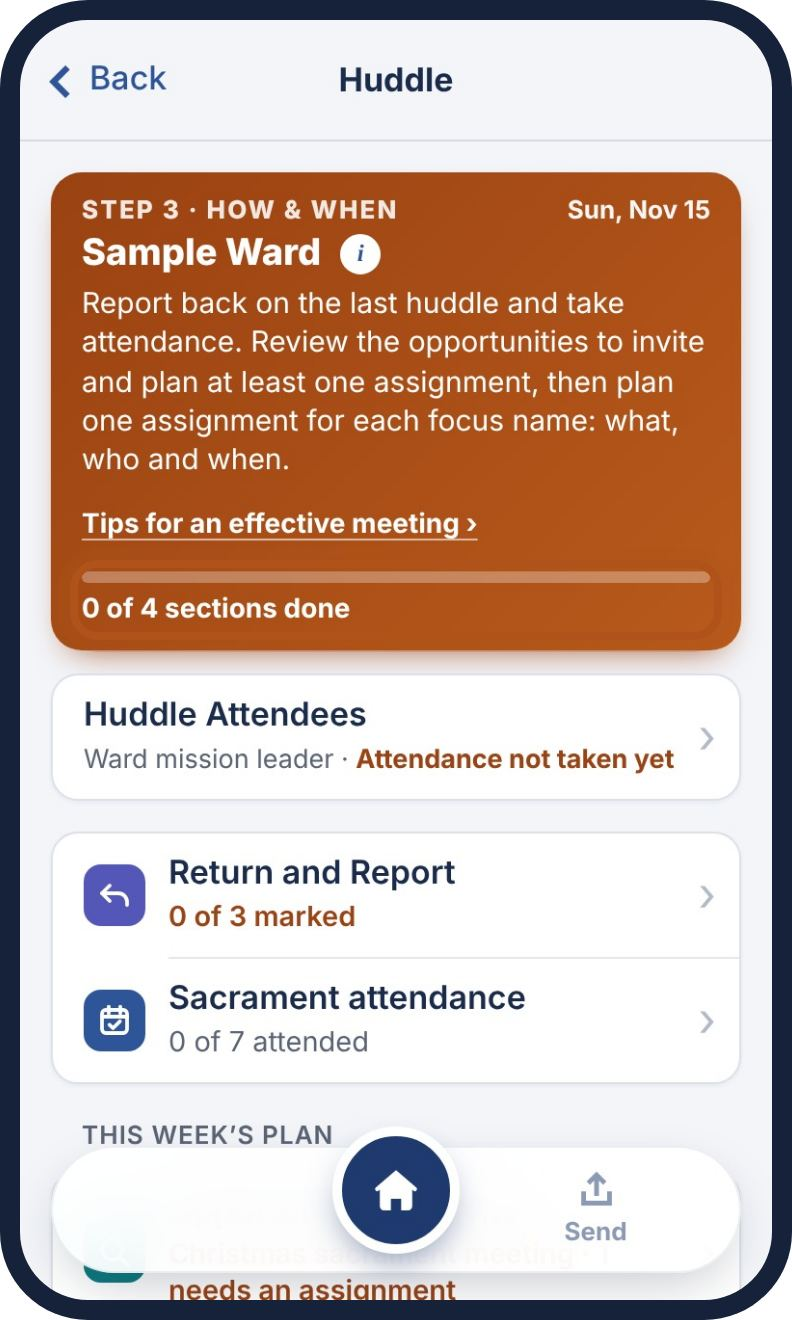
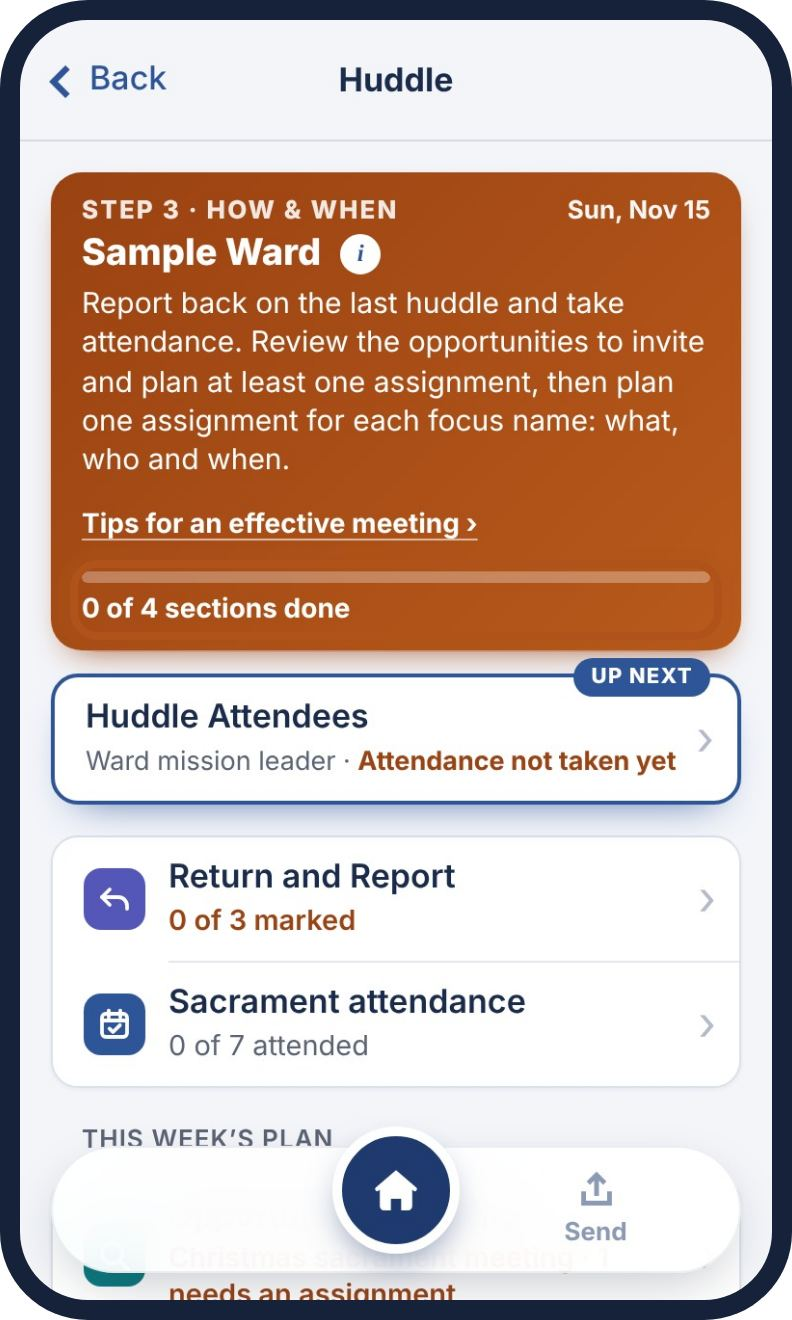
Lighter Huddle: Up next from Attendees, one big button per screen, small Add an event; Add to focus names picker
Claude-Session: https://claude.ai/code/session_01PW98YcMvh8WynmxGN9Y5LD

diff --git a/app.js b/app.js
@@ -1587,7 +1587,7 @@
         x.past ? h('span', { class: 'wc-status', 'data-status': statusOf(x.status) || 'pending', text: STATUS_WORD[x.status] || 'Pending' }) : null,
         h('span', { class: 'step-chev', 'aria-hidden': 'true', text: '›' })])]);
     });
-    lines.push(h('li', {}, [h('button', { type: 'button', class: 'nav-row add-row', 'data-action': 'add-asg', 'data-a': k, 'aria-label': 'Add an assignment to ' + (t || 'this opportunity') }, [icon('plus'), h('span', { text: 'Add an assignment' })])]));
+    lines.push(h('li', {}, [h('button', { type: 'button', class: 'nav-row add-row add-asg-strong', 'data-action': 'add-asg', 'data-a': k, 'aria-label': 'Add an assignment to ' + (t || 'this opportunity') }, [icon('plus'), h('span', { text: 'Add an assignment' })])]));
     return h('section', { class: 'list-panel rows list-fn opp-panel', 'data-opp': o.id, 'aria-label': t || 'Opportunity' }, [h('ul', { class: 'steps-list person-rows' }, [h('li', { class: 'opp-card-top' }, [head])].concat(lines))]);
   }
   // One opportunity's own screen: what's coming up, its date, and its assignments.
@@ -1628,7 +1628,7 @@
       var kind = view === 'wc-fn' ? 'wc' : 'hd';
       if (kind === 'hd' && opps.length) { // the Huddle: one card per opportunity, its assignments as lines under it
         wrap.replaceChildren.apply(wrap, opps.map(function (o, k) { return oppCard(o, k); }).concat([
-          h('button', { type: 'button', class: 'btn-outline full btn-add-opp', 'data-action': 'add-opp' }, ['+ Add an event'])]));
+          h('button', { type: 'button', class: 'btn-link btn-add-opp quiet-add', 'data-action': 'add-opp' }, ['+ Add an event'])])); // a small link: the Huddle plans assignments
         return;
       }
       var rows = opps.map(function (o, k) { return oppRow(kind, o, k); });
@@ -2082,15 +2082,18 @@
     if (!$('#steps-home')) return;
     renderHeroes();
     var fc = $('#fn-count'); if (fc) fc.textContent = plural(state.find.items.filter(function (x) { return str(x.task).trim(); }).length, 'assignment', 'assignments');
+    // Up next (the user asked, Nov 19, 2026, night): Attendees, then each section in order; the first not done is highlighted.
+    var upNext = !state.attendees.length ? 'att' : (STEPS.filter(function (x) { return !state.stepsDone[x.id]; })[0] || {}).id || '';
+    var ds = $('#details-summary'); if (ds) { ds.classList.toggle('is-next', upNext === 'att'); ds.classList.toggle('is-done', !!state.attendees.length); }
     var row = function (st) {
-      var isDone = !!state.stepsDone[st.id], status = stepStatus(st.id);
+      var isDone = !!state.stepsDone[st.id], status = stepStatus(st.id), isNext = upNext === st.id;
       var num = null;
       if (isDone) { num = h('span', { class: 'step-num' + (justDone && justDone.id === st.id && Date.now() - justDone.at < 1500 ? ' pop' : ''), 'aria-hidden': 'true' }); num.appendChild(icon('check')); }
-      return h('li', {}, [h('button', { type: 'button', class: 'nav-row step-row' + (isDone ? ' done' : ''), 'data-action': 'open-step', 'data-a': st.id,
-        'aria-label': st.title + (isDone ? ', done' : '') + '. ' + status.text }, [
+      return h('li', { class: isNext ? 'is-next' : null }, [h('button', { type: 'button', class: 'nav-row step-row' + (isDone ? ' done' : '') + (isNext ? ' is-next' : ''), 'data-action': 'open-step', 'data-a': st.id,
+        'aria-label': st.title + (isDone ? ', done' : isNext ? ', up next' : '') + '. ' + status.text }, [
         tile(st.id),
         h('span', { class: 'step-text' }, [
-          h('span', { class: 'step-title', text: st.title }),
+          h('span', { class: 'step-title' }, [st.title, isNext ? h('span', { class: 'row-next', text: 'Up next' }) : null]),
           h('span', { class: 'step-status' + (status.warn ? ' warn' : ''), text: status.text })
         ]),
         num,
@@ -2105,6 +2108,10 @@
   function footList() { return isWcList(view) ? WC_LISTS.map(function (l) { return { id: 'wc-' + l.id, title: l.title }; }) : STEPS; }
   function renderStepFoot() {
     var list = footList(), i = list.findIndex(function (st) { return st.id === view; });
+    var hint = $('#step-gate-hint'); if (hint) hint.hidden = true;
+    // One big button per screen (the user asked, Nov 19, 2026, night): no Next and Back links under it.
+    $('#step-next').hidden = true; $('#step-prev').hidden = true;
+    if (view === 'wc-pick') { $('#step-done-btn').hidden = true; var ul0 = $('#step-foot .undone-link'); if (ul0) ul0.hidden = true; return; }
     if (i < 0) return;
     var nxt = list[i + 1], prv = list[i - 1], wcSec = isWcList(view), btn = $('#step-done-btn');
     btn.hidden = wcSec && view !== 'wc-fn' && view !== 'wc-cp'; // Opportunities to invite and the Covenant Path Report (Ask ward council) have the button
@@ -2114,12 +2121,11 @@
     else if (!wcSec) {
       var gate = state.stepsDone[view] ? null : stepGate(view);
       markDoneBtn(btn, !!state.stepsDone[view], 'step-undone', 'steps-home', view === 'fn' && !oppsTitled() ? 'No upcoming events' : 'Mark done', 'step-done');
-      if (gate) { btn.classList.add('is-blocked'); btn.setAttribute('data-action', 'step-gate'); btn.querySelector('.mark-label').textContent = gate.text; btn.setAttribute('aria-label', gate.text + '. Tap to go there.'); }
+      // What's still needed is a plain gray line above a gray Mark done (tapping it still opens what's missing).
+      if (gate) { btn.classList.add('is-blocked'); btn.setAttribute('data-action', 'step-gate'); btn.setAttribute('aria-label', 'Mark done. ' + gate.text + ' first. Tap to go there.'); if (hint) { hint.textContent = gate.text + ' first.'; hint.hidden = false; } }
     }
     var ul = $('#step-foot .undone-link'); if (ul && wcSec && view !== 'wc-fn' && view !== 'wc-cp') ul.hidden = true;
-    var sn = $('#step-next'), sp = $('#step-prev');
-    sn.hidden = !nxt; sp.hidden = !prv;
-    // A quiet shortcut line, not steps: "‹ Return and Report · Name Next Ordinance ›"
+    var sn = $('#step-next'), sp = $('#step-prev'); // (kept on the page, always hidden now)
     if (nxt) { sn.textContent = 'Next: ' + nxt.title + ' ›'; sn.setAttribute('aria-label', 'Next: ' + nxt.title); }
     if (prv) { sp.textContent = '‹ ' + prv.title; sp.setAttribute('aria-label', 'Go to ' + prv.title); }
   }
@@ -2154,7 +2160,7 @@
     $('#bw-view').hidden = !bw; $('#af-view').hidden = !af;
     $('#mode-title').textContent = wc ? 'Ward Council' : bw ? 'Before Ward Council' : af ? 'After the huddle' : 'Huddle';
     $('#hd-hero').hidden = all || view !== 'home'; // the Huddle's header card, with its one line on what to do there
-    var stp = STEPS.filter(function (x) { return x.id === view; })[0] || WC_LISTS.filter(function (x) { return 'wc-' + x.id === view; })[0];
+    var stp = STEPS.filter(function (x) { return x.id === view; })[0] || WC_LISTS.filter(function (x) { return 'wc-' + x.id === view; })[0] || (view === 'wc-pick' ? { title: 'Find your focus names' } : null);
     $('#step-title').textContent = person ? personTitle(personRef) : stp ? stp.title : '';
     // Leaving a person's screen: drop a name left empty, then redraw the lists it appears on.
     if (isPerson(shownView) && !person) { cleanupPerson(); renderCP(); renderTN(); renderFN(); }
@@ -2292,8 +2298,8 @@
     var next = order.filter(function (id) { return !done[id]; })[0] || '';
     return { done: done, next: next };
   }
-  function isWcList(v) { return v === 'wc-cp' || v === 'wc-tn' || v === 'wc-fn' || v === 'wc-mr'; }
-  function isWcNames(v) { return v === 'wc-cp' || v === 'wc-tn'; }
+  function isWcList(v) { return v === 'wc-cp' || v === 'wc-tn' || v === 'wc-fn' || v === 'wc-mr' || v === 'wc-pick'; }
+  function isWcNames(v) { return v === 'wc-cp' || v === 'wc-tn' || v === 'wc-pick'; }
   function wcStatus(id) {
     if (id === 'fn') { // ward council lists what's coming up; the huddle makes the assignments, so no warning here
       var wn = state.find.opps.filter(function (o) { return str(o.title).trim(); });
@@ -2334,7 +2340,7 @@
       ul.classList.toggle('is-next', parts.next === l.id); ul.classList.toggle('is-done', !!parts.done[l.id]);
       ul.replaceChildren(wcPartRow(l, parts));
     });
-    var cpUl = $('#wc-step-cp'); if (cpUl) cpUl.replaceChildren(wcPartRow(WC_LISTS[1], { done: {}, next: '' }, true));
+    var cpUl = $('#wc-step-cp'); if (cpUl) cpUl.replaceChildren(wcPartRow({ id: 'cp', open: 'pick', title: 'Covenant Path Report' }, { done: {}, next: '' }, true)); // opens the picker
     // The focus names, right on the screen: tap one to open it, swipe left to take it off.
     var sec = $('#wc-step-tn'); if (!sec) return;
     var named = focusNamed(), done = parts.done.tn, next = parts.next === 'tn';
@@ -2356,6 +2362,26 @@
       ]), done ? icon('check', 'wc-done-tick') : null]),
       h('ul', { class: 'steps-list person-rows', 'data-wc': 'tn' }, rows), keep ? h('div', { class: 'wc-keep-wrap' }, [keep]) : null].filter(Boolean));
   }
+  // Find your focus names → the Covenant Path Report (the user asked, Nov 19, 2026, night): just each name, a Suggested
+  // focus name tag with its reason (the temple countdown, a baptism date), and Add to focus names. No question, no
+  // report link: those belong to Ask ward council.
+  function pickPanel(gid, title) {
+    var rows = state.cp[gid].map(function (a, i) { return { a: a, i: i }; }).filter(function (x) { return str(x.a.name).trim(); }).map(function (x) {
+      var name = str(x.a.name).trim(), on = focusIndex(name) >= 0, pr = on ? '' : pressingReason(x.a, gid);
+      return h('li', { class: 'pick-li' }, [h('div', { class: 'nav-row pick-row' }, [
+        initialsDot(name),
+        h('span', { class: 'step-text' }, [h('span', { class: 'step-title person-name', text: name }),
+          pr ? h('span', { class: 'row-tags' }, [rowTag('Suggested focus name', 'due')]) : null,
+          pr ? h('span', { class: 'step-status' }, [h('span', { class: 'row-due', text: pr })]) : null]),
+        on ? h('span', { class: 'pick-on' }, [icon('check'), h('span', { text: 'Focus name' })])
+          : h('button', { type: 'button', class: 'btn-outline pick-add', 'data-action': 'pick-focus', 'data-a': gid, 'data-b': x.i, 'aria-label': 'Add ' + name + ' to focus names' }, ['Add to focus names'])
+      ])]);
+    });
+    if (!rows.length) rows.push(h('li', { class: 'list-empty' }, [h('p', { class: 'list-empty-text', text: 'No names yet.' })]));
+    var attrs = { class: 'list-panel rows list-' + gid, 'aria-label': title, 'data-pick': gid };
+    return h('section', attrs, [h('div', { class: 'list-head' }, [h('h3', { class: 'list-title', text: title }), h('span', { class: 'list-count', text: countText(countNamed(gid)) })]),
+      h('ul', { class: 'steps-list person-rows' }, rows)]);
+  }
   function renderWC() {
     var wrap = $('#wc-list'), rows = $('#wc-rows'); if (!wrap || !rows) return;
     rows.hidden = !(stepsOn && view === 'wc');
@@ -2363,7 +2389,7 @@
     if (!rows.hidden) renderWcCards();
     if (rowsOn) { // one row per name; the fields are on the person's own screen
       if (!isWcNames(view)) { wrap.replaceChildren(); return; }
-      wrap.replaceChildren.apply(wrap, view === 'wc-tn' ? [rowsPanel('wc', 'tn', 'Focus names')] : [reportLink()].concat(GROUPS.map(function (g) { return rowsPanel('wc', g.id, g.title); })));
+      wrap.replaceChildren.apply(wrap, view === 'wc-tn' ? [rowsPanel('wc', 'tn', 'Focus names')] : view === 'wc-pick' ? GROUPS.map(function (g) { return pickPanel(g.id, g.title); }) : [reportLink()].concat(GROUPS.map(function (g) { return rowsPanel('wc', g.id, g.title); })));
       return;
     }
     // (Cards-open layout.) The names are only built while their list is on screen, so each field exists once on the page.
@@ -2768,6 +2794,7 @@
         focusLast('[data-group="' + a + '"] input[data-bind$=".name"]'); break;
       case 'convert-nm': convertToNewMember(+a); break;
       case 'make-focus': state.tnKept = true; makeFocus(a, +b); break;
+      case 'pick-focus': state.tnKept = true; makeFocus(a, +b); renderWC(); break;
       case 'tn-keep': if (!focusNeeds().length) { state.tnKept = true; saveDraft(); renderWC(); renderDoors(); renderHeroes(); } break;
       case 'wc-ask-done': state.ask = state.ask || {}; state.ask.done = true; saveDraft(); renderStepFoot();
         { var hs1 = null; try { hs1 = history.state; } catch (e) { /* ignore */ } if (hs1 && isWcList(hs1.hv) && hs1.pushed) { try { history.back(); } catch (e) { showView('wc', 'replace'); } } else showView('wc', 'replace'); }
@@ -2897,7 +2924,13 @@
       case 'slide-prev': showSlide(slideAt - 1); break;
       case 'close-slides': closeOverlay('#slides-sheet'); break;
       case 'close-ward': closeOverlay('#ward-sheet'); renderDoors(); renderSteps(); wardClosed(); break;
-      case 'close-details': detailsOpen = false; renderDetails(); window.scrollTo(0, 0); break;
+      case 'close-details': detailsOpen = false; renderDetails(); renderSteps(); window.scrollTo(0, 0); break;
+      case 'details-done': { // Attendees done: straight on to the next section not done yet (Nov 19, 2026, night)
+        detailsOpen = false; renderDetails(); renderSteps(); window.scrollTo(0, 0);
+        var nx1 = state.attendees.length ? STEPS.filter(function (x) { return !state.stepsDone[x.id]; })[0] : null;
+        if (nx1) showView(nx1.id, 'push');
+        break;
+      }
       case 'edit-one': {
         state.openOne[a] = +b; rerenderList(a);
         var oc = document.querySelector('.fold-open .card');

diff --git a/test/tools/slides/scenes.js b/test/tools/slides/scenes.js
@@ -12,7 +12,7 @@ module.exports = [
   { shot: 's12b-wc-opp', k: 'Step 2 · Opportunities to invite', c: 'blue', title: 'What’s coming up', body: 'Add each upcoming event and its event date, then tap Done. If there are none, tap No upcoming events.', t: 7 },
   { shot: 's09-wc-cp', k: 'Step 2 · Ask ward council', c: 'blue', title: 'What has anyone heard?', body: 'Ask the council: has anyone completed a step on their Covenant Path this week? Before Ward Council matched the report in Member Tools; this is for what people know.', t: 9 },
   { shot: 's18-howhelp', k: 'Step 2 · How can we help?', c: 'blue', title: 'Questions to guide you', body: 'On each Covenant Path Report list, tap How can we help? for the questions in Preach My Gospel, chapter 13.', t: 8 },
-  { shot: 's10-wc-person', k: 'Step 2 · Ask ward council', c: 'blue', title: 'Check off, or make a focus name', body: 'Tap a name to check off a step that’s done. Make focus name adds them to this week’s focus names. Then tap Done, or No changes this week.', t: 8 },
+  { shot: 's10-wc-person', k: 'Step 2 · Ask ward council', c: 'blue', title: 'Check off what’s done', body: 'Tap a name to check off a step that’s done. Then tap Done, or No changes this week. Find your focus names has Add to focus names beside each name.', t: 8 },
   { shot: 's11-wc-focus-person', k: 'Step 2 · Focus names', c: 'blue', title: 'Give each a next ordinance', body: 'Only focus names get a next ordinance. Tap one and choose it, or tap Suggested. When the report shows it done, Ward Council chooses the next.', t: 8 },
   { shot: 's12-wc-done', k: 'Step 2 · Focus names', c: 'blue', title: 'Keep these focus names', body: 'Each week, look at the focus names again. Tap Keep these focus names (or add or remove one) and the card turns green.', t: 7 },
   { shot: 's13-start-up3', k: 'Step 3 · The Huddle', c: 'orange', title: 'How and when', body: 'The Huddle is the weekly coordination meeting: brief, focused, and about people.', t: 6 },
@@ -26,7 +26,7 @@ module.exports = [
   { shot: 's22-person-text', k: 'Step 3 · Before everyone leaves', c: 'orange', title: 'Text this assignment', body: 'Send each assignment by text, so the person asked to help knows exactly what, for whom, and when.', t: 8 },
   { shot: 's21-hd-note', k: 'Step 3 · Focus names', c: 'red', title: 'Never add confidential information', body: 'This reminder sits under the notes. Everyone who receives the huddle report can read it. Keep it to names, ordinances and simple needs.', t: 7 },
   { shot: 's23-hd-tn-done', k: 'Step 3 · Focus names', c: 'orange', title: 'A plan for every focus name', body: 'Each name now shows its assignment, who, and when. Mark done works once every name has one.', t: 6 },
-  { shot: 's25-huddle-all', k: 'Step 3 · The Huddle', c: 'orange', title: 'All four sections done', body: 'Mark done takes you on to the next section. The bar fills in.', t: 6 },
+  { shot: 's25-huddle-all', k: 'Step 3 · The Huddle', c: 'orange', title: 'All four sections done', body: 'Follow Up next: Attendees, then each section. Mark done takes you on to the next one.', t: 6 },
   { shot: 's26-start-up4', k: 'Step 4 · After the huddle', c: 'plum', title: 'Up next: After the huddle', body: 'Three green checks. One step left before you send.', t: 6 },
   { shot: 's27-after', k: 'Step 4 · After the huddle', c: 'plum', title: 'Update the Covenant Path Report', body: 'This page lists only what changed. Go back to the Covenant Path Report and update it with the new information.', t: 8 },
   { shot: 's28-after-done', k: 'Step 4 · After the huddle', c: 'plum', title: 'Mark it done', body: 'Update each changed name in the report and tick Updated in the report. Then Mark done works.', t: 6 },

diff --git a/index.html b/index.html
@@ -168,7 +168,7 @@
       </details>
       <div class="chips" id="attendee-list"></div>
     </div>
-    <button type="button" class="btn-outline full details-done" data-action="close-details" hidden>Done</button>
+    <button type="button" class="btn-primary full details-done" data-action="details-done" hidden>Done</button>
     </div>
   </header>
 
@@ -344,6 +344,7 @@
   </section>
 
   <div class="step-foot" id="step-foot" hidden>
+    <p class="step-gate-hint" id="step-gate-hint" hidden></p>
     <button type="button" class="btn-primary full mark-done" data-action="step-done" id="step-done-btn"><svg class="mark-check" width="18" height="18" viewBox="0 0 18 18" fill="none" stroke="currentColor" stroke-width="2.4" aria-hidden="true"><path d="M3.5 9.5l3.5 3.3L14.5 5"/></svg><span class="mark-label" id="step-done-label">Mark done</span></button>
     <div class="step-nav">
       <button type="button" class="step-nav-btn prev" data-action="step-prev" id="step-prev"></button>
@@ -652,14 +653,14 @@
           <li>Tap <strong>Home</strong>, then <strong>Ward Council</strong>. Work down the cards; the next one says <strong>Up next</strong>.</li>
           <li><strong>Opportunities to invite:</strong> tap <strong>Add an event</strong>, then <strong>Done</strong> (or <strong>No upcoming events</strong>).</li>
           <li><strong>Ask ward council:</strong> check off steps done this week (tap How can we help? for questions), then <strong>Done</strong>.</li>
-          <li><strong>Find your focus names:</strong> in a list or <strong>Open Part-Member Families</strong>, then <strong>Make focus name</strong> or <strong>Add a focus name</strong>.</li>
+          <li><strong>Find your focus names:</strong> tap <strong>Add to focus names</strong> beside a name, or <strong>Open Part-Member Families</strong>.</li>
           <li><strong>Focus names:</strong> tap each one and choose its next ordinance, then tap <strong>Keep these focus names</strong>.</li>
         </ul>
       </details></li>
       <li><details class="help-item">
         <summary class="nav-row"><span class="help-num" aria-hidden="true">3</span><span class="step-text"><span class="step-title">Huddle</span><span class="step-status">How and when to help</span></span><span class="step-chev" aria-hidden="true">›</span></summary>
         <ul class="help-body">
-          <li>Tap <strong>Home</strong>, then <strong>Huddle</strong>. The bar shows sections done. In <strong>Huddle Attendees</strong>, choose who’s conducting and tap who attended.</li>
+          <li>Tap <strong>Home</strong>, then <strong>Huddle</strong>, and follow <strong>Up next</strong>: first <strong>Huddle Attendees</strong> (who’s conducting, who attended), then each section.</li>
           <li><strong>Return and Report:</strong> mark each assignment <strong>Yes</strong>, <strong>Partly</strong> or <strong>No</strong>; tap <strong>Carry forward to this huddle</strong> to keep an unfinished one.</li>
           <li><strong>Sacrament attendance:</strong> tap each person who came.</li>
           <li><strong>Opportunities to invite:</strong> under an event, tap <strong>Add an assignment</strong>, then a way to invite.</li>

diff --git a/test/flow.js b/test/flow.js
@@ -42,9 +42,14 @@ const flags = ['huddle-tour-seen', 'huddle-help-seen', 'huddle-names-hint-seen',
   await p.click('#hd-hero .hero-i'); await w(150);
   ok(await p.isVisible('#hd-intro'), 'tapping the i shows them');
   ok(/This week’s plan/.test(await p.textContent('#band-plan')), 'the plan’s heading is This week’s plan');
+  ok(await p.evaluate(() => document.querySelector('#details-summary').classList.contains('is-next')) && await p.locator('.step-row.is-next').count() === 0, 'Up next: Huddle Attendees comes first');
+  await p.click('[data-action="open-details"]'); await w(300); await p.click('#attendee-list button >> nth=0'); await w(150); await p.click('[data-action="details-done"]'); await w(500);
+  ok(await view() === 'rr', 'Attendees’ Done goes straight on to Return and Report');
+  await p.click('[data-action="steps-home"]'); await w(300);
+  ok(await p.locator('[data-action="open-step"][data-a="rr"].is-next .row-next').count() === 1 && !(await p.evaluate(() => document.querySelector('#details-summary').classList.contains('is-next'))), 'then Return and Report is Up next');
   // Opportunities to invite: gray until an event has an assignment
   await p.click('[data-action="open-step"][data-a="fn"]'); await w(400);
-  ok(await blocked() && await btn() === 'Plan at least one assignment', 'Opportunities to invite: Mark done is gray until an event has an assignment');
+  ok(await blocked() && await btn() === 'Mark done' && (await p.textContent('#step-gate-hint')) === 'Plan at least one assignment first.' && await p.isVisible('#step-gate-hint'), 'Opportunities to invite: Mark done is gray, with a plain gray line saying an event needs an assignment');
   await p.click('#step-done-btn'); await w(400);
   ok(await view() === 'p-hd', 'tapping it opens the event');
   await p.click('#person-card [data-action="add-fn"]'); await w(300);
@@ -52,7 +57,7 @@ const flags = ['huddle-tour-seen', 'huddle-help-seen', 'huddle-names-hint-seen',
   ok(!(await blocked()) && await btn() === 'Mark done', 'with an assignment, Mark done works');
   await p.click('#step-done-btn'); await w(500);
   ok(await view() === 'tn', 'Mark done goes straight on to the next section (Focus names)');
-  ok(await blocked() && await btn() === 'Marcus Bell needs an assignment', 'Focus names: gray, saying who still needs an assignment');
+  ok(await blocked() && (await p.textContent('#step-gate-hint')) === 'Marcus Bell needs an assignment first.', 'Focus names: gray, with a line saying who still needs an assignment');
   await p.click('#step-done-btn'); await w(500);
   ok(await view() === 'p-hd' && (await p.textContent('#step-title')) === 'Marcus Bell', 'tapping it opens that focus name');
   // The focus name's screen: ward council's part is one line with an i

diff --git a/styles.css b/styles.css
@@ -1736,3 +1736,27 @@ body[data-view="start"] .title-text .title-sub { margin-top: 8px; font-size: 13p
 .card-grid > .ord-done { grid-column: 1 / -1; }
 /* An event's own screen: its fields in a white block, like a person's screen */
 #person-view .opp-screen > .card-grid { background: var(--card); border-radius: 12px; padding: 14px 16px; margin-top: 14px; }
+
+/* The Huddle: the section up next is highlighted (Attendees first), the way Ward Council's cards are */
+.step-row.is-next { background: var(--accent-soft); box-shadow: inset 4px 0 0 var(--accent); }
+.row-next { display: inline-block; margin-left: 8px; padding: 1px 8px; border-radius: 999px; background: var(--accent); color: #FFFFFF; font-size: 11px; font-weight: 800; letter-spacing: .05em; text-transform: uppercase; vertical-align: 2px; }
+.details-summary.is-next { border: 2px solid var(--accent); box-shadow: 0 10px 22px -14px var(--accent); position: relative; }
+.details-summary.is-next::after { content: 'Up next'; position: absolute; top: -10px; right: 14px; padding: 2px 9px; border-radius: 999px; background: var(--accent); color: #FFFFFF; font-size: 11px; font-weight: 800; letter-spacing: .06em; text-transform: uppercase; }
+/* One big button per Huddle screen: what's still needed is a plain gray line above a gray Mark done */
+.step-gate-hint { margin: 0 0 6px; text-align: center; font-size: 14px; color: var(--muted); }
+.step-gate-hint[hidden] { display: none; }
+.quiet-add { align-self: center; margin-top: 2px; font-size: 15px; font-weight: 600; }
+/* Ward Council's picker: each name with Add to focus names */
+.pick-row { cursor: default; }
+.pick-row:active { background: none; }
+.pick-add { flex: none; min-height: 40px; padding: 6px 12px; font-size: 14px; font-weight: 700; border-radius: 999px; white-space: nowrap; }
+.pick-on { flex: none; display: inline-flex; align-items: center; gap: 5px; font-size: 14px; font-weight: 700; color: #1F6B3A; }
+.pick-on svg { width: 16px; height: 16px; }
+@media (max-width: 359px) { .pick-add { padding: 6px 10px; font-size: 13px; } }
+.step-gate-hint { position: sticky; z-index: 4; bottom: calc(max(14px, env(safe-area-inset-bottom, 0px)) + 82px + 58px); }
+/* In the Huddle, an event's Add an assignment is what stands out */
+.add-asg-strong { background: var(--accent-soft); font-weight: 700; }
+.pick-row { flex-wrap: wrap; row-gap: 6px; }
+.pick-row .step-text { flex: 1 1 120px; }
+.pick-row .person-name { overflow-wrap: normal; }
+.pick-row .pick-add, .pick-row .pick-on { margin-left: auto; }

diff --git a/test/steps.js b/test/steps.js
@@ -69,16 +69,10 @@ async function sendAnyway(pg) { await pg.waitForTimeout(150); if (await pg.isVis
     await p.click('[data-action="step-done"]'); await p.waitForTimeout(200); if (await p.isVisible('#confirm-sheet')) { await p.click('#confirm-primary'); await p.waitForTimeout(200); }
     if (!(await vis('#steps-home'))) { await p.click('[data-action="steps-home"]'); await p.waitForTimeout(200); } // Mark done went on to the next section
     ok(await p.locator('[data-a="cp"].step-row.done').count() === 1 && await p.locator('.step-row.done').count() === 1, 'section gets a green check');
-    // Next step link
-    await p.click('[data-action="open-step"][data-a="fn"]'); // Opportunities to invite comes before Focus names (Nov 19, 2026)
-    ok((await p.textContent('#step-next')).includes('Focus names'), 'next step link');
-    ok((await p.textContent('#step-prev')).includes('Covenant Path') && !(await p.textContent('#step-prev')).includes('Report Review'), 'back link names the previous step (Covenant Path Report)');
-    await p.click('#step-next');
-    ok(await vis('[data-step="tn"]') && !(await p.isVisible('#step-next')) && (await p.textContent('#step-title')) === 'Focus names', 'went to the last section (Focus names); no next link');
-    await p.click('#step-prev');
+    // One big button per screen (Nov 19, 2026, night): no Next or Back links under Mark done
+    await p.click('[data-action="open-step"][data-a="fn"]'); await p.waitForTimeout(200);
+    ok(!(await p.isVisible('#step-next')) && !(await p.isVisible('#step-prev')), 'no Next or Back links under Mark done');
     await p.locator('#step-done-btn').screenshot({ path: `${OUT}/${tag}-foot.png` });
-    ok(await vis('[data-step="fn"]'), 'Back goes to the previous step');
-    await p.click('#step-next');
     await p.click('[data-action="steps-home"]'); await p.waitForTimeout(200);
     ok(await vis('#steps-home'), 'All steps button returns');
     // Draft keeps progress after reload

diff --git a/test/wccards.js b/test/wccards.js
@@ -95,6 +95,11 @@ const ok = (c, m) => { if (c) { passed++; console.log('PASS ' + m); } else { fai
   await p.click('[data-action="add-focus"]'); await w(500); await p.keyboard.type('Samuel Ortiz'); await p.keyboard.press('Enter'); await w(200);
   await p.click('#person-card .person-done'); await w(500);
   ok((await p.$$eval('#wc-step-tn .person-name', e => e.map(x => x.textContent))).join('|') === 'Emma Walsh|Marcus Bell|Samuel Ortiz' && !(await p.isVisible('[data-action="add-focus"]')), 'Add a focus name adds a third, and the button goes once there are three');
+  // Find your focus names → the Covenant Path Report: a picker with Add to focus names, and nothing else
+  await p.click('#wc-step-cp [data-action="open-wc-list"]'); await w(400);
+  ok(await view() === 'wc-pick' && (await p.textContent('#step-title')) === 'Find your focus names' && await p.locator('#wc-list .ask-q, #wc-list .quiet-link').count() === 0, 'Find your focus names opens a picker, without the Ask ward council question or report link');
+  ok(await p.locator('#wc-list [data-pick="rm"] .pick-on').count() === 1 && await p.locator('#wc-list [data-action="pick-focus"]').count() === 0, 'names already focus names say so (Emma and Marcus here)');
+  ok(!(await p.isVisible('#step-done-btn')) && await fits(), 'no button at the bottom, and it fits a small phone');
   ok(!errs.length, 'no page errors ' + errs.join('; '));
   await b.close();
   console.log(passed + '/' + (passed + failed) + ' checks passed');

diff --git a/dark.css b/dark.css
@@ -299,6 +299,9 @@
 :where(:root.theme-dark) .list-panel.rows { box-shadow: 0 1px 2px rgba(119, 142, 187, .05); }
 :where(:root.theme-dark) .list-panel.rows > .steps-list { border-top: 1px solid #343B49; }
 :where(:root.theme-dark) .list-panel.rows .list-head + .person-rows, :where(:root.theme-dark) .list-panel.rows .list-head + .info-text + .person-rows { border-top: 1px solid #343B49; }
+:where(:root.theme-dark) .row-next { color: #FFFFFF; }
+:where(:root.theme-dark) .details-summary.is-next::after { color: #FFFFFF; }
+:where(:root.theme-dark) .pick-on { color: #B0DEC1; }
 /* hand-tuned */
 :where(:root.theme-dark) .focus-box.is-pressing { background: #3A1D1D; border-color: #6E2C2C; }
 :where(:root.theme-dark) .focus-why { color: #FF9C9C; }

diff --git a/sw.js b/sw.js
@@ -1,5 +1,5 @@
 /* Offline support: caches the page's own files only. It never stores form data. */
-var CACHE = 'huddle-v248';
+var CACHE = 'huddle-v249';
 var FILES = [
   './',
   'index.html',

diff --git a/docs/SPEC.md b/docs/SPEC.md
@@ -907,3 +907,18 @@ handoff link without it loads with no referrals (referrals are no longer shown, 
 - **Words:** Before Ward Council says **Match Member Tools** (step 1's line, its instructions and Help), so it reads
   as copying the official report, and Ask ward council as asking people.
 - An event's own screen keeps its fields in a white block, like a person's screen.
+
+## Changes on Nov 19, 2026, night: a lighter Huddle and a focus name picker (the user asked)
+
+- **Find your focus names → Covenant Path Report** opens a picker of its own, titled "Find your focus names": the three
+  lists with each name, a **Suggested focus name** tag with its reason in red ("Temple: 3 days left", a baptism date),
+  and **Add to focus names** on the right (it wraps under the name on a small phone). Once added the row says
+  "✓ Focus name". Nothing else: the Ask ward council question and the report link stay on Ask ward council's screen.
+- **One big button per screen.** The "Next: …" button and "‹ …" link under Mark done are gone (Mark done already moves
+  on). When something is still needed, Mark done is gray with a plain gray line above it ("Plan at least one
+  assignment first."); tapping it still opens what's missing.
+- **The Huddle's Opportunities to invite:** "+ Add an event" is a small link under the events, and each event's
+  **Add an assignment** row is tinted so it stands out.
+- **Up next in the Huddle:** Huddle Attendees, then Return and Report, Sacrament attendance, Opportunities to invite
+  and Focus names. The first not done is highlighted (Attendees outlined with an Up next tag; a section row tinted
+  with an Up next pill). Attendees' **Done** goes straight on to the next section once attendance is taken.

diff --git a/CLAUDE.md b/CLAUDE.md
@@ -100,8 +100,8 @@ section, step 4) is pinned just above it, green with a check once done; the gree
 and a small Mark as not done link under it undoes it; on the opening screen Home scrolls back to the top. Each
 training slide shows which part of the week it is in (1-4 and Week).
 `wccards.js` tests Ward Council's cards (Up next, Done or No upcoming events, Ask ward council, the Find your focus names tool box,
-the focus names right on the screen with Keep these focus names, next ordinance only on focus names, Event date). `flow.js` tests the week's flow: the opening screen, the
-"i" instructions, the Huddle's Mark done waiting for what's needed and going on to the next section, After the huddle's
+the focus names right on the screen with Keep these focus names, the Add to focus names picker, next ordinance only on focus names, Event date). `flow.js` tests the week's flow: the opening screen, the
+"i" instructions, Up next in the Huddle (Attendees first), Mark done waiting for what's needed (a gray line says what) and going on to the next section, After the huddle's
 Updated in the report ticks, Hand off under the steps and the ward asked first.
 `howhelp.js` tests the How can we help? panels, the list names' bands and the source links.
 `lively.js` tests the header cards, icons, initials and the Sent celebration. Keep color and motion
